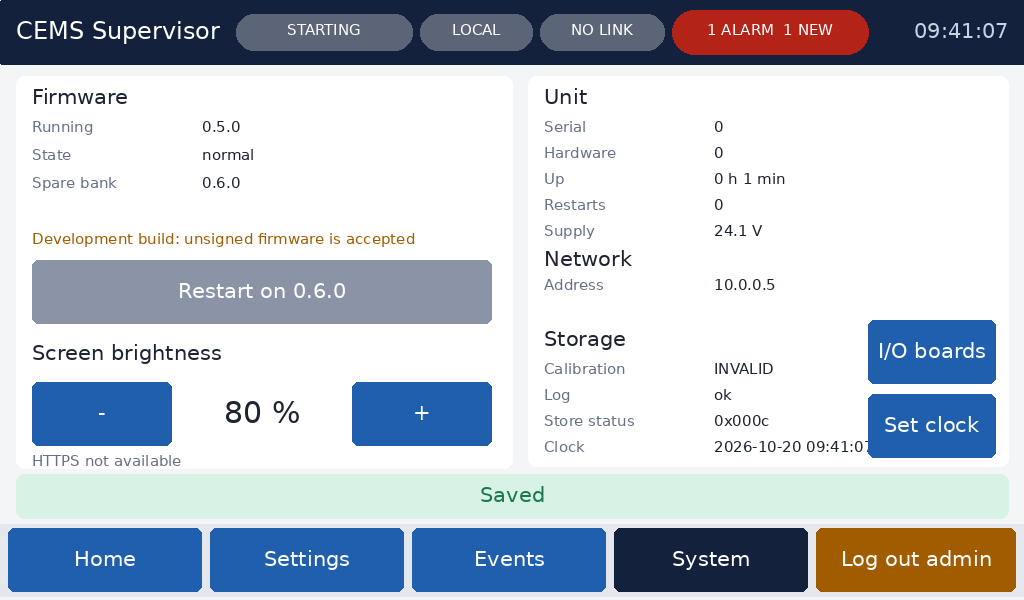
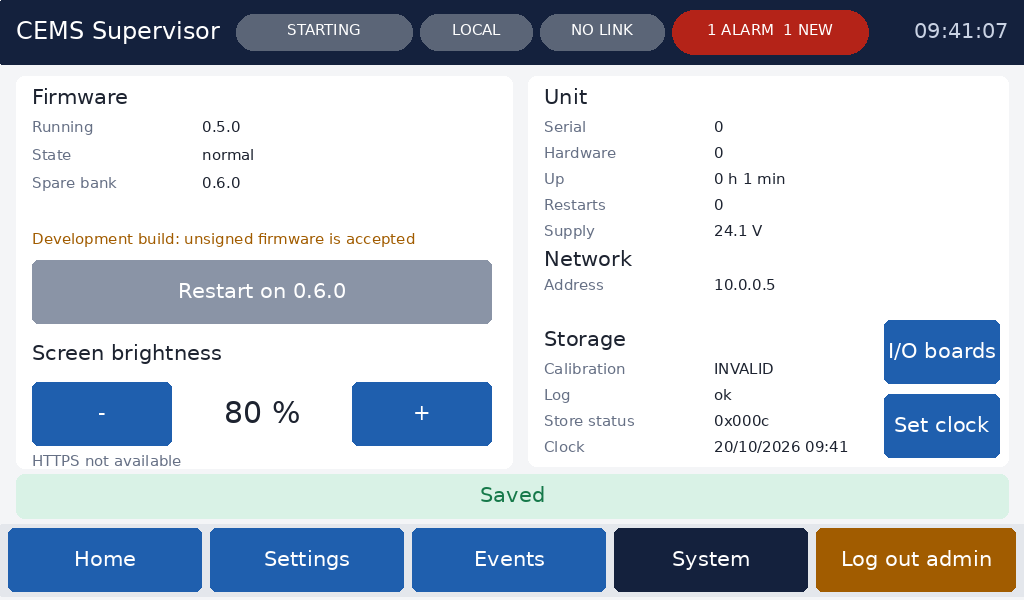
System screen: clock as dd/mm/yyyy hh:mm so it clears the Set clock button
Claude-Session: https://claude.ai/code/session_01AbDXgecyAmn6R8hhL7qjD2

Changed region(s): [[0.7188, 0.51, 1.0, 0.78]]

diff --git a/platform/ui/ui.c b/platform/ui/ui.c
@@ -977,10 +977,12 @@ static void draw_system(uint32_t now) {
         kv(544, BODY_Y + 390, "Memory", b);
     }
     uint32_t ct;
-    if (plat_clock_now(&ct)) log_fmt_time(b, sizeof b, ct, true); else snprintf(b, sizeof b, "NOT SET");
+    if (plat_clock_now(&ct))                          /* day first, no seconds (the header has them): clears the buttons */
+        snprintf(b, sizeof b, "%02u/%02u/%04u %02u:%02u", RTC_Date.Day_In_Month, RTC_Date.Month, RTC_Date.Year, RTC_Time.Hours, RTC_Time.Minutes);
+    else snprintf(b, sizeof b, "NOT SET");
     kv(544, BODY_Y + 364, "Clock", b);
-    button(T_CLOCK, 868, BODY_Y + 318, 128, 64, "Set clock", C_ACCENT, true);
-    button(T_IOB, 868, BODY_Y + 244, 128, 64, "I/O boards", C_ACCENT, true);
+    button(T_CLOCK, 884, BODY_Y + 318, 116, 64, "Set clock", C_ACCENT, true);
+    button(T_IOB, 884, BODY_Y + 244, 116, 64, "I/O boards", C_ACCENT, true);
 }
 
 /* I/O boards (iobus.h): one card per board, outputs and inputs as lit squares, faults in words */
